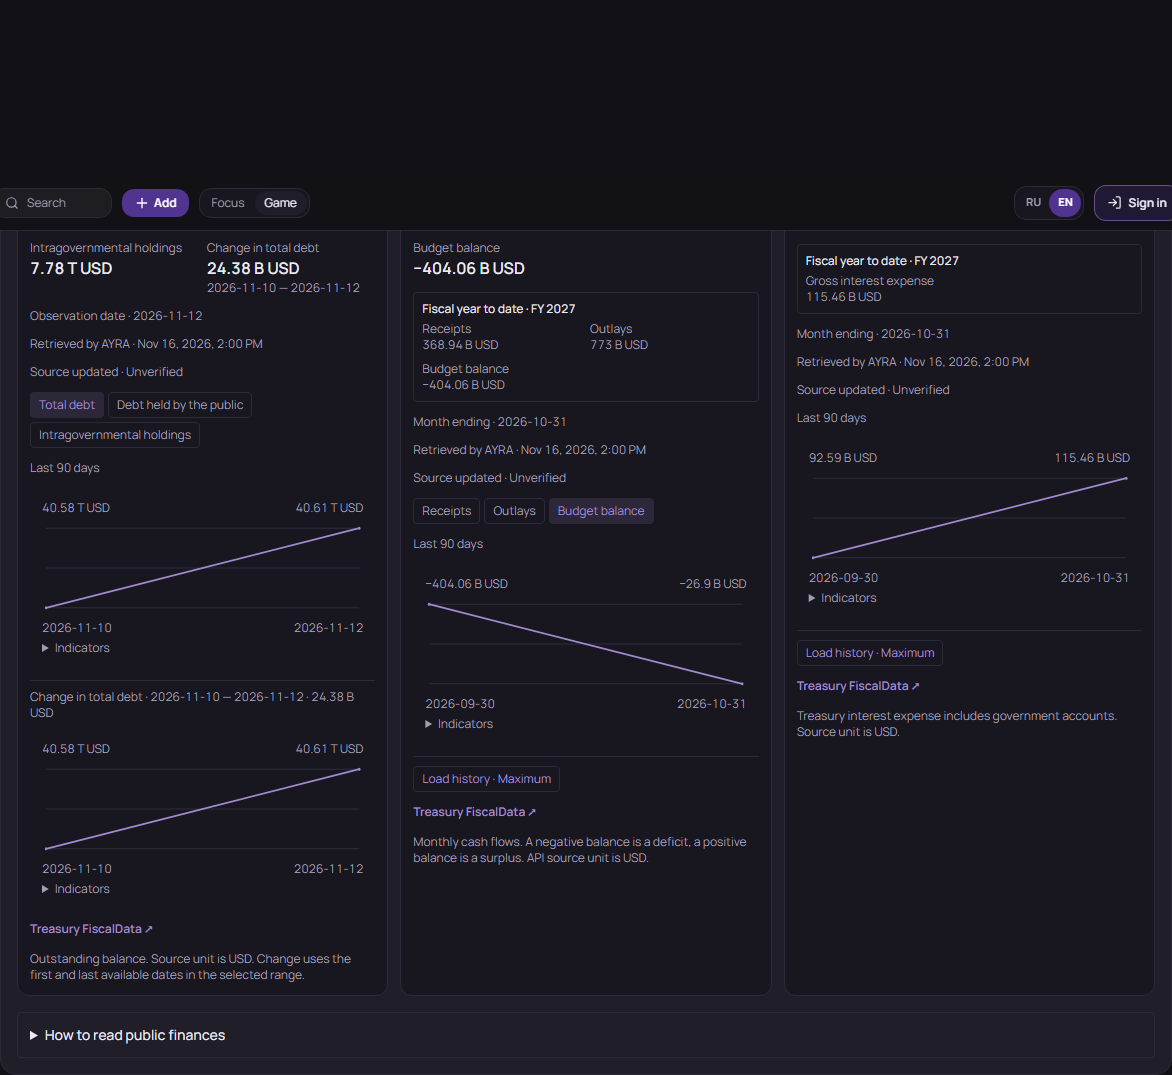
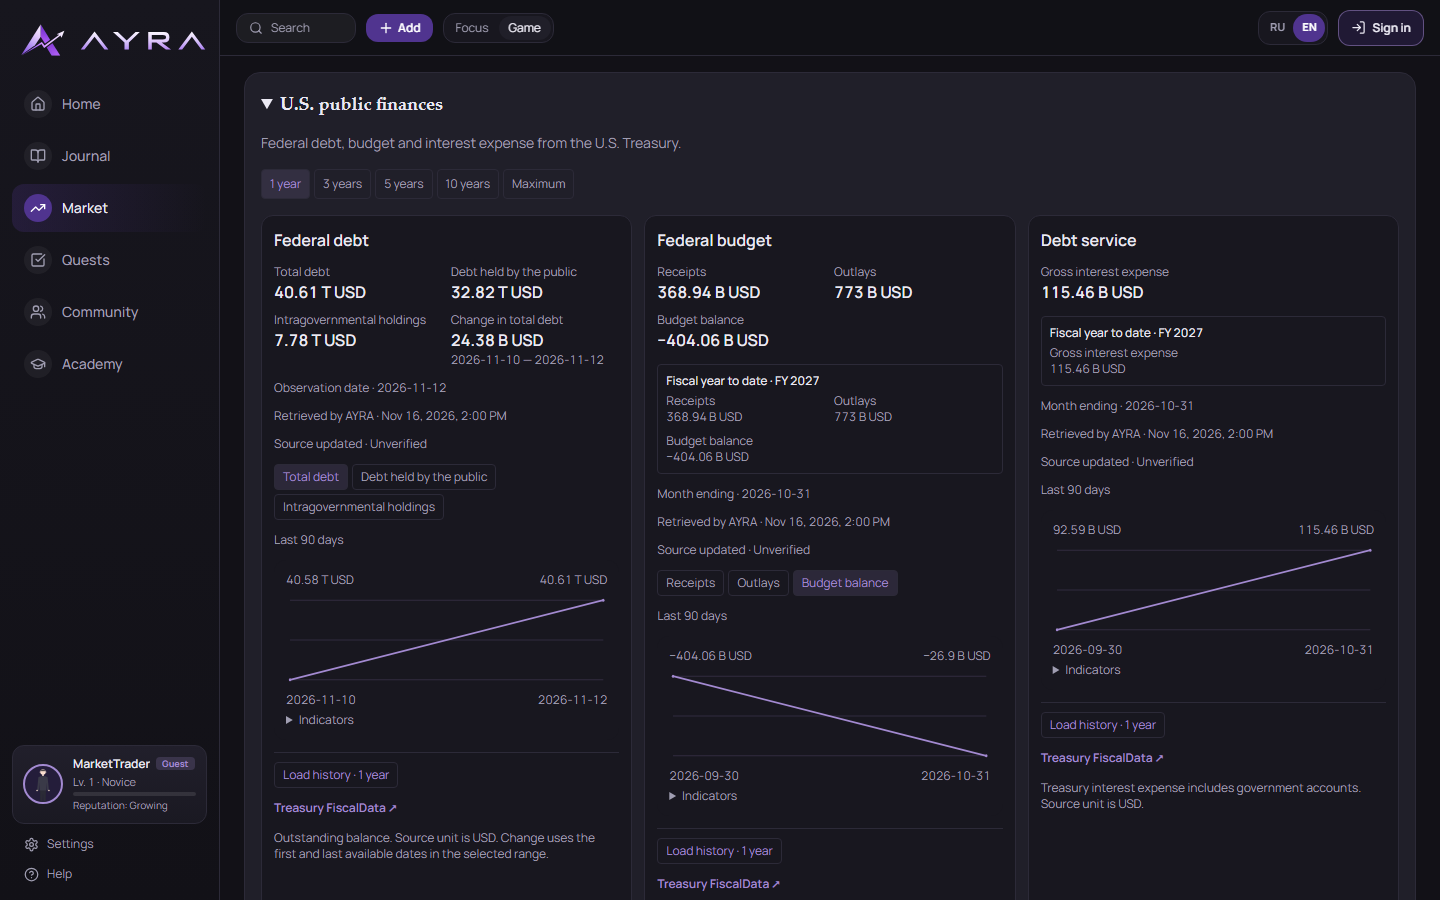
Capture Treasury cards at the real viewport sizes

diff --git a/e2e-supabase/market-public-finances.spec.ts b/e2e-supabase/market-public-finances.spec.ts
@@ -49,15 +49,16 @@ for (const [width, lang] of [[390, "ru"], [1440, "en"]] as const) {
       await expect(finances.getByTestId("fiscal-debt").locator("dd").filter({ hasText: lang === "ru" ? "40,61 трлн USD" : "40.61 T USD" })).toBeVisible();
       await expect(finances.getByText(/FY 2027/)).toHaveCount(2);
       await expect(finances.getByTestId("fiscal-budget").getByText(lang === "ru" ? "−404,06 млрд USD" : "−404.06 B USD", { exact: true }).first()).toBeVisible();
+      await expect.poll(() => page.evaluate(() => document.documentElement.scrollWidth)).toBe(width);
+      if (process.env.AYRA_ECO_SCREENSHOT_DIR) {
+        await finances.evaluate(element => element.scrollIntoView({ block: "start" }));
+        await page.screenshot({ path: `${process.env.AYRA_ECO_SCREENSHOT_DIR}/public-finances-${width}.png` });
+      }
       await finances.getByRole("button", { name: lang === "ru" ? "Максимум" : "Maximum" }).click();
       expect(requests.every(request => request.endsWith(":latest"))).toBeTruthy();
       await finances.getByTestId("fiscal-debt").getByRole("button", { name: /Загрузить историю|Load history/ }).click();
       await expect.poll(() => requests.filter(request => request.endsWith(":max"))).toEqual(["debt:max"]);
       await expect(finances.getByTestId("fiscal-debt").getByRole("button", { name: /Загрузить историю|Load history/ })).toHaveCount(0);
-      await expect.poll(() => page.evaluate(() => document.documentElement.scrollWidth)).toBe(width);
-      if (process.env.AYRA_ECO_SCREENSHOT_DIR) {
-        await finances.screenshot({ path: `${process.env.AYRA_ECO_SCREENSHOT_DIR}/public-finances-${width}.png` });
-      }
     } finally { finishDebt(); await page.context().close(); }
   });
 }
